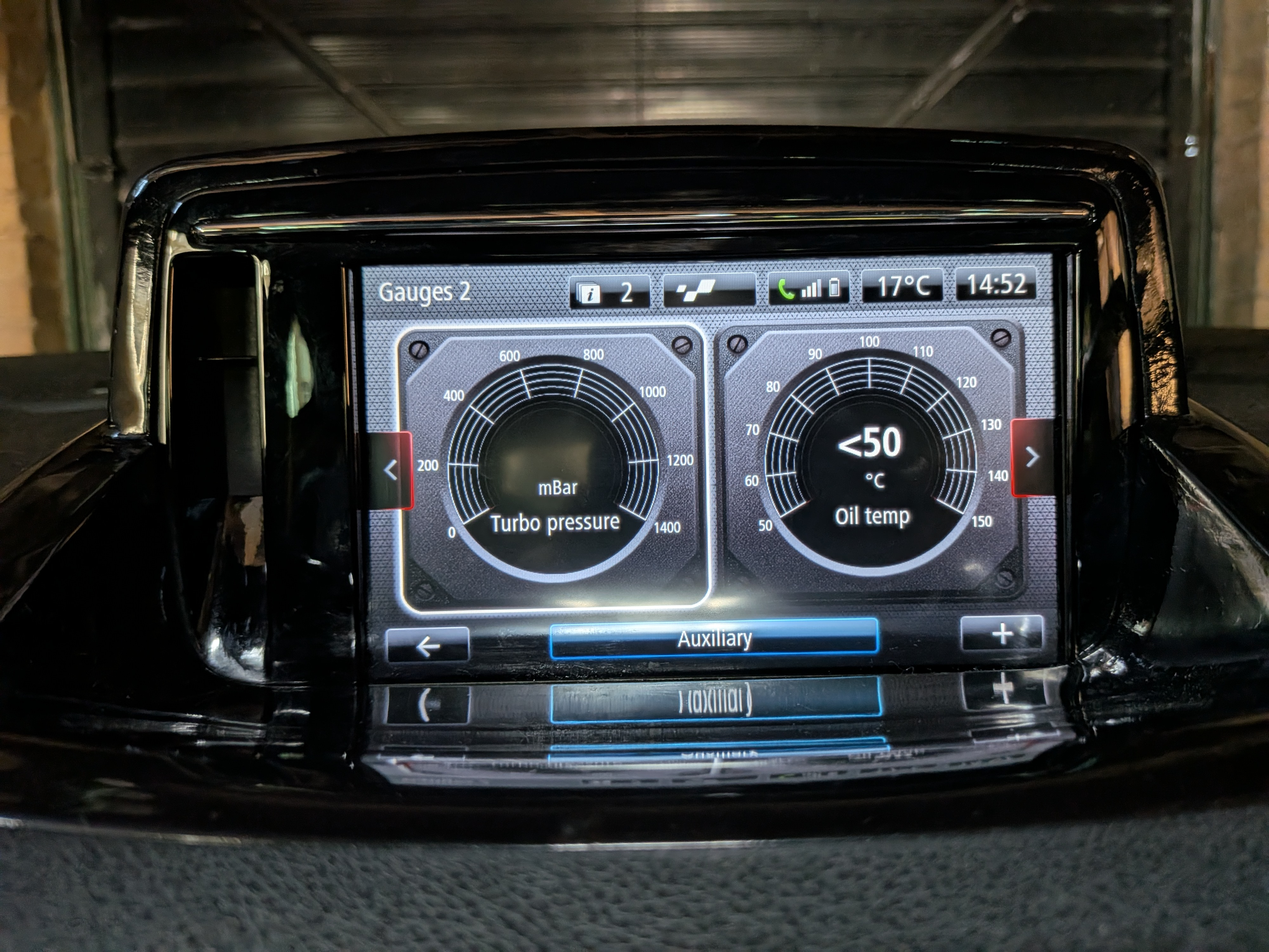
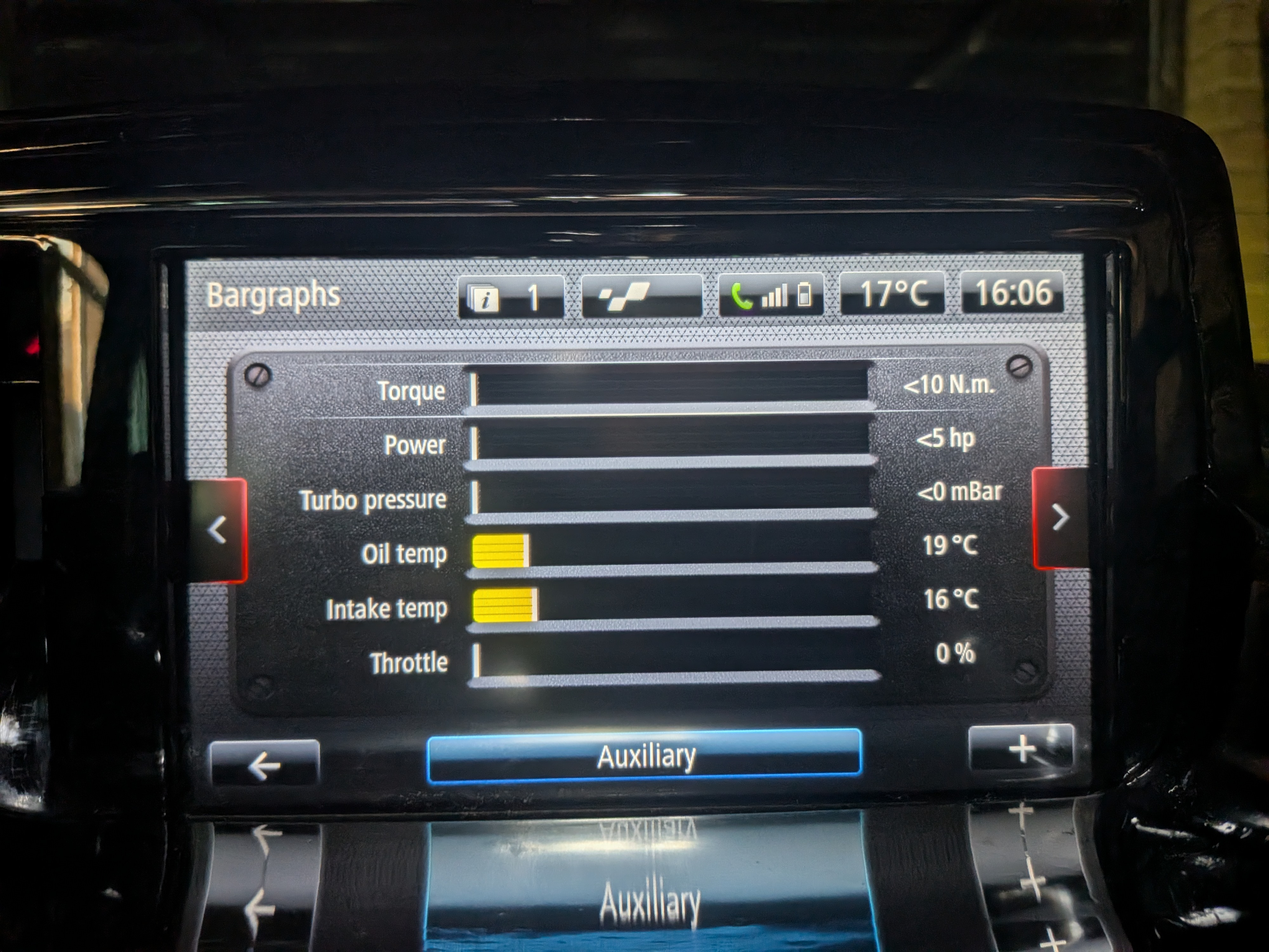
Update 2026-10-30-RS-Drive.md, rs_drive.jpg, rs_monitor_1.jpg, and 1 more file

diff --git a/_posts/2026-10-30-RS-Drive.md b/_posts/2026-10-30-RS-Drive.md
@@ -11,7 +11,7 @@ images:
   lightbox2: true
 ---
 
-I don't know why, but some cars that have RS Monitor don't have RS Drive 2 enabled, which basically allows you to change throttle response, traction control, and the engine map per mode, Normal, Sport and Race. This is a guide on how to enable that via DDT4ALL.
+I don't know why, but some cars that have RS Monitor don't have RS Drive 2 enabled, which basically allows you to change throttle response, traction control, and the power steering per mode (Normal, Sport and Race). This is a guide on how to enable that via DDT4ALL.
 
 <div class="row">
     <div class="col-sm mt-3 mt-md-0">
@@ -90,7 +90,7 @@ At this point it should be done, I had to disconnect the battery on my car for i
 
 Now you can access RS Drive from within RS Monitor and change settings from there.
 
-For anyone that's interested in what slot 2 does, it basically manages the torque and power graphs in RS Monitor, _changing these does not change the map on the car, its for display only_. On a standard car you don't need to change these but on a mapped/modified one you can change this to reflect the real power of the car as I have done on my [Megane RS400](https://professorshroom.com/projects/Renault_Megane/).
+For anyone that's interested in what slot 2 does, it basically manages the torque and power graphs in RS Monitor, _changing these does not change the map on the car, its for display only; you could make it display 1000BHP if you wanted_. On a standard car you don't need to change these but on a mapped/modified one you can change this to reflect the real power of the car as I have done on my [Megane RS400](https://professorshroom.com/projects/Renault_Megane/).
 
 For anyone wanting to do this, [here is a spreadsheet](https://rsslots.professorshroom.com) which allows you to input new figures and generates a new code for you.
 _If you do this you also need to edit slot 1 again with the new peak power and torque figures._
